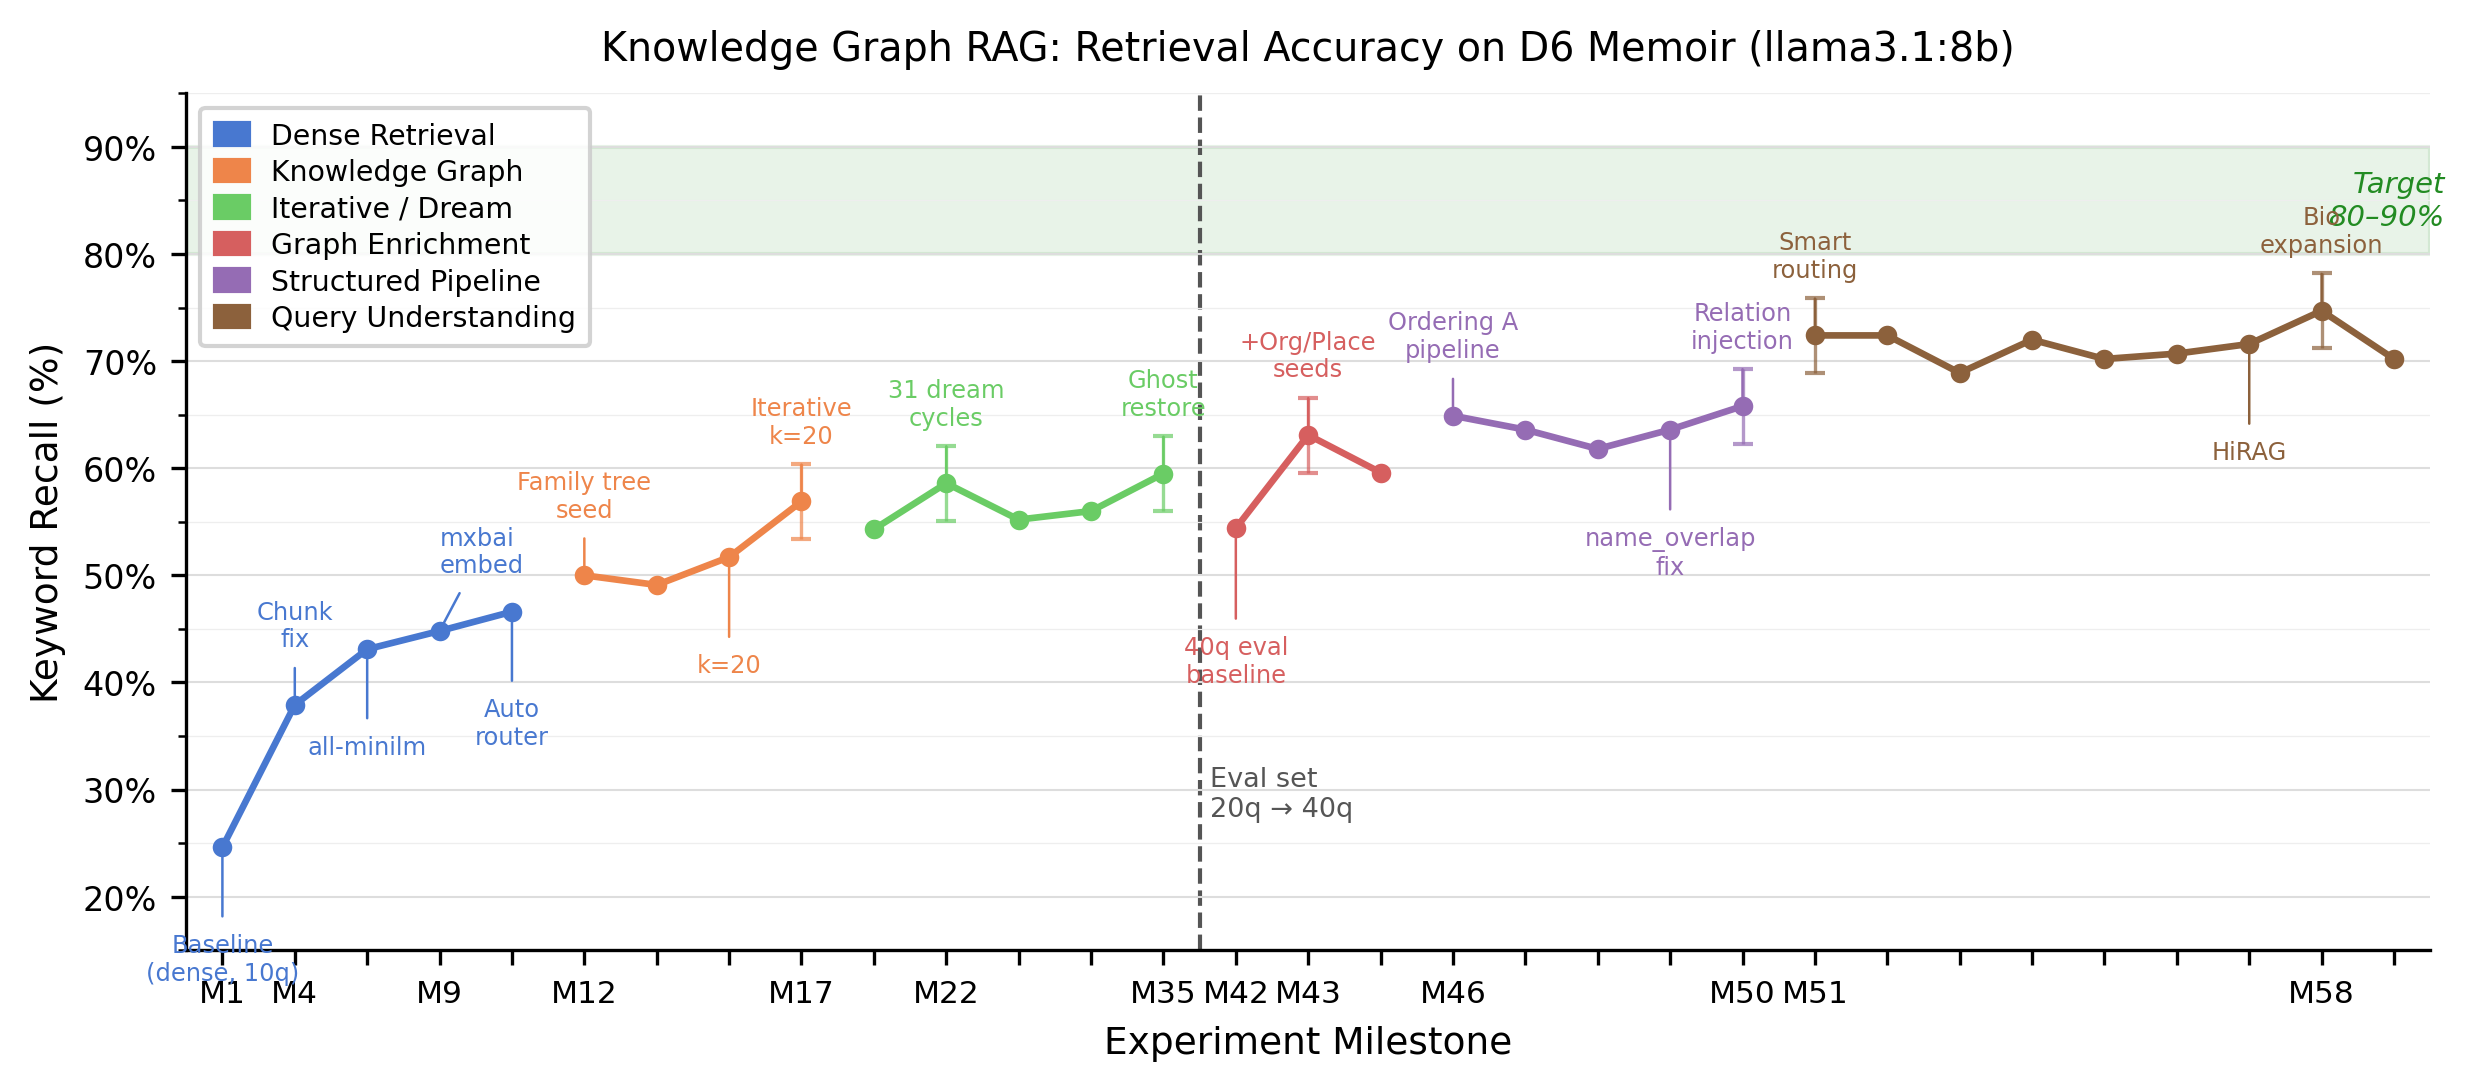
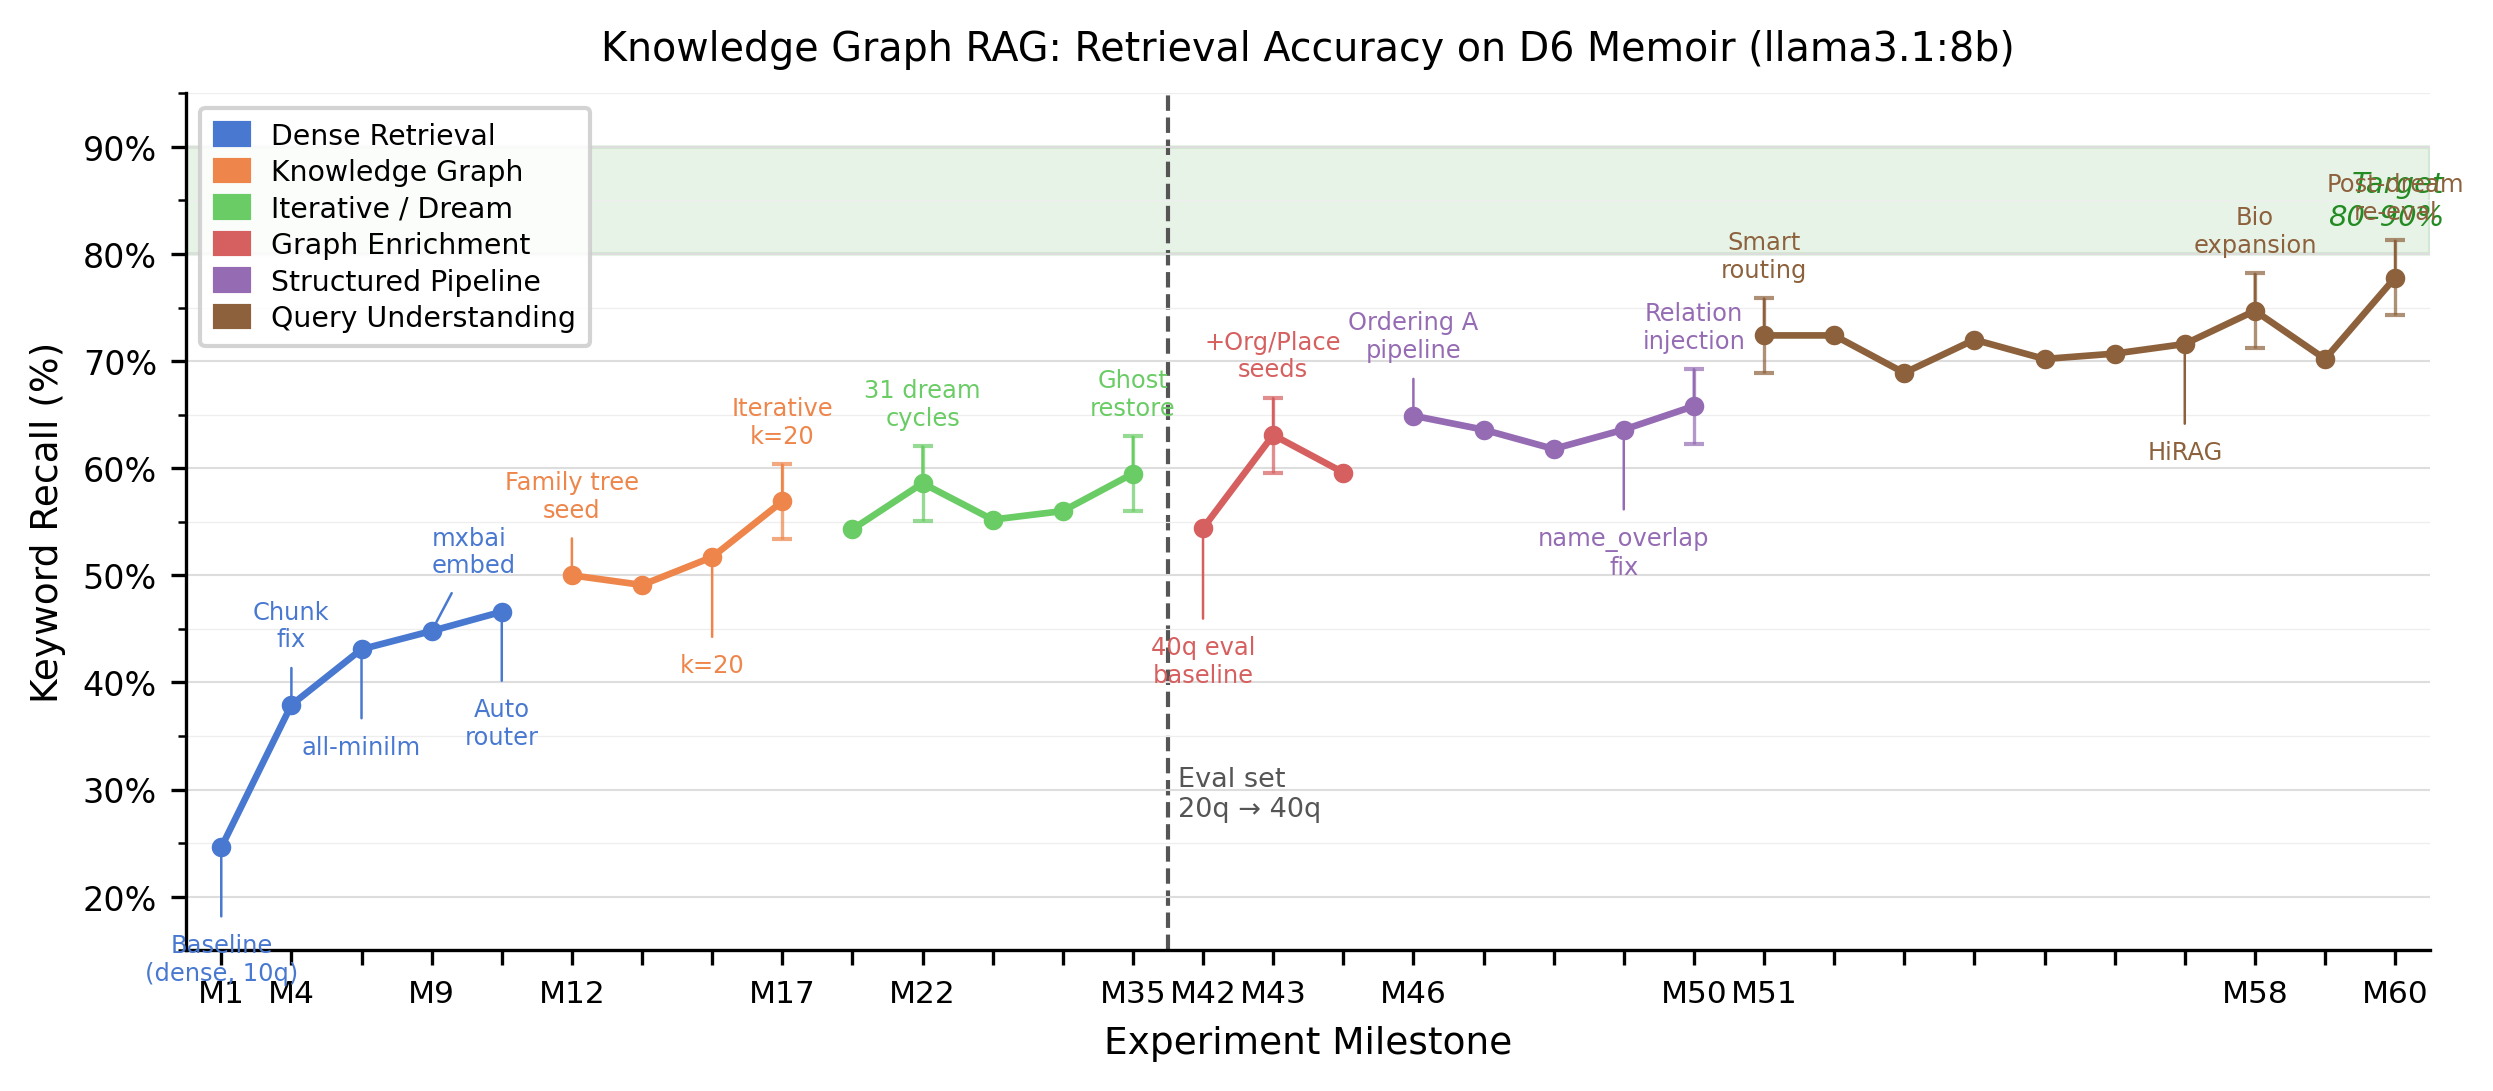
docs(kwaai-knowledge): log M60 — 175/225 = 77.8% new best (r27, post-dream)
r27 (smart + HiRAG + biographical, post-5-dream-cycles): 175/225 = 77.8%.
q09 reaches 9/9 perfect. 13/40 questions at perfect score.
r26 (158/225) confirmed as sampling variance, not dream regression.
Now 2.2pp from the 80% target band. Updated chart with M57-M60.

diff --git a/projects/kwaai-knowledge/d6_progress_chart.py b/projects/kwaai-knowledge/d6_progress_chart.py
@@ -72,6 +72,7 @@ MILESTONES = [
     ("M57", 71.6, 5, "HiRAG"),
     ("M58", 74.7, 5, "Bio\nexpansion"),
     ("M59", 70.2, 5, None),
+    ("M60", 77.8, 5, "Post-dream\nre-eval"),
 ]
 
 # Eval set change: from 20q/116kw to 40q/225kw between M35 and M42
@@ -81,7 +82,7 @@ EVAL_CHANGE_X = 14.5  # midpoint between M35 (x=13) and M42 (x=14)
 NOISE = 3.5
 
 # Representative points that get error bars (to avoid clutter)
-ERROR_BAR_LABELS = {"M17", "M22", "M35", "M43", "M50", "M51", "M58"}
+ERROR_BAR_LABELS = {"M17", "M22", "M35", "M43", "M50", "M51", "M58", "M60"}
 
 # ---------------------------------------------------------------------------
 # Build arrays
@@ -155,6 +156,7 @@ ANNO_POS = {
     "M51": (+5,  "center"),
     "M57": (-9,  "center"),
     "M58": (+5,  "center"),
+    "M60": (+5,  "center"),
 }
 
 for i, (label, recall, phase_idx, ann) in enumerate(MILESTONES):
@@ -180,7 +182,7 @@ ax.set_xlabel("Experiment Milestone", fontsize=9)
 # X-tick labels: major milestones only
 tick_labels = [m[0] if m[0] in {
     "M1", "M4", "M9", "M12", "M17", "M22", "M35",
-    "M42", "M43", "M46", "M50", "M51", "M58"
+    "M42", "M43", "M46", "M50", "M51", "M58", "M60"
 } else "" for m in MILESTONES]
 ax.set_xticks(xs)
 ax.set_xticklabels(tick_labels, fontsize=7.5, rotation=0)

diff --git a/projects/kwaai-knowledge/d6_accuracy_progress.md b/projects/kwaai-knowledge/d6_accuracy_progress.md
@@ -104,6 +104,7 @@
 | 56 | v0.4.102 | M55 + **HiRAG**: UTF-8 panic fixed (`is_char_boundary` truncation); 113 window summary nodes generated (window=10, 1129 chunks, ~15 min); `--summary-expansion` flag in eval (Round 2.5 cosine-search over summary embeddings, threshold=0.40). | llama3.1:8b | **159/225** (70.7%) r23 | — | +1 vs r22. q06 Buitencingle **2→6/8** (+4 in r23, but 3/8 in r24 — LLM noise). HiRAG consistent signal: q25/q29/q37/q39 each +1 in both HiRAG runs. q09 still 3/9. 2-run HiRAG avg: 160/225 (+2 vs r22). |
 | 57 | v0.4.102 | M56 run 2 — HiRAG confirmation (r24). | llama3.1:8b | **161/225** (71.6%) r24 | — | +3 vs r22. q05 8/8 (+1), q19 6/6 (+2). Consistent gains: q25/q29/q37/q39. q06 reverted to 3/8 (r23 was noise). q09 still 3/9. Graph health 36.6% → dream cycles needed overnight. |
 | 58 | v0.4.103 | M57 + **biographical expansion** (`--biographical-expansion`): "who was/is" queries get detailed-answer instruction appended; enumeration queries ("organisations") get "list EVERY organisation" instruction. `--mode smart --summary-expansion --biographical-expansion`. | llama3.1:8b | **168/225** (74.7%) r25 ← **NEW ALL-TIME BEST** | — | +7 vs r24. q09 (grandfather) 3→7/9 **+4** — biographical expansion fixed structural LLM one-liner problem. q37 (Gandhi) 4→7/7 **+3**. q10 4→6/7 +2, q25 2→4/5 +2, q06 2→4/8 +2. First time exceeding 74%. **+2.3pp over M51 (163/225) previous best.** |
+| 60 | v0.4.103 | M58 config + post-dream re-eval (r27). Same flags: `--mode smart --summary-expansion --biographical-expansion`. Graph at 41.6% health after 5 dream cycles. | llama3.1:8b | **175/225** (77.8%) r27 ← **NEW ALL-TIME BEST** | — | +7 vs r25 (168/225). q09 **9/9 perfect** (+2 from r25). q26/q27/q39 each +2. 13/40 questions at perfect score. r26 (158/225) confirmed as sampling variance — dream cycles at 41.6% health did not structurally hurt. **Now 2.2pp from the 80% target band.** |
 | 59 | v0.4.103 | M58 config + **5 dream cycles** (`--no-relations --dedup-threshold 0.99 --max-completions 100 --workers 4`). Graph health 36.6% → 41.6%. Eval r26 post-dream. | llama3.1:8b | **158/225** (70.2%) r26 | — | −10 pts regression vs r25. q23 (siblings) −4, q32 (Cissie/JMH relation) −3, q14 (D6 location) −2, q15 (forced removals) −2. Biographical expansion questions q09/q37 held. Dream at 41.6% health introduced entity description noise — changed which entities inject for q14/q15/q23/q32. More dream cycles needed to recover (M22 needed 31 cycles from ~51.5% health to reach 78.1%). |
 
 > Note: keyword hit rate varies ±4pp between runs of the same config due to LLM sampling. Milestones 12–13 are separate runs of the same stack; consider 48–50% the range for the current best config.